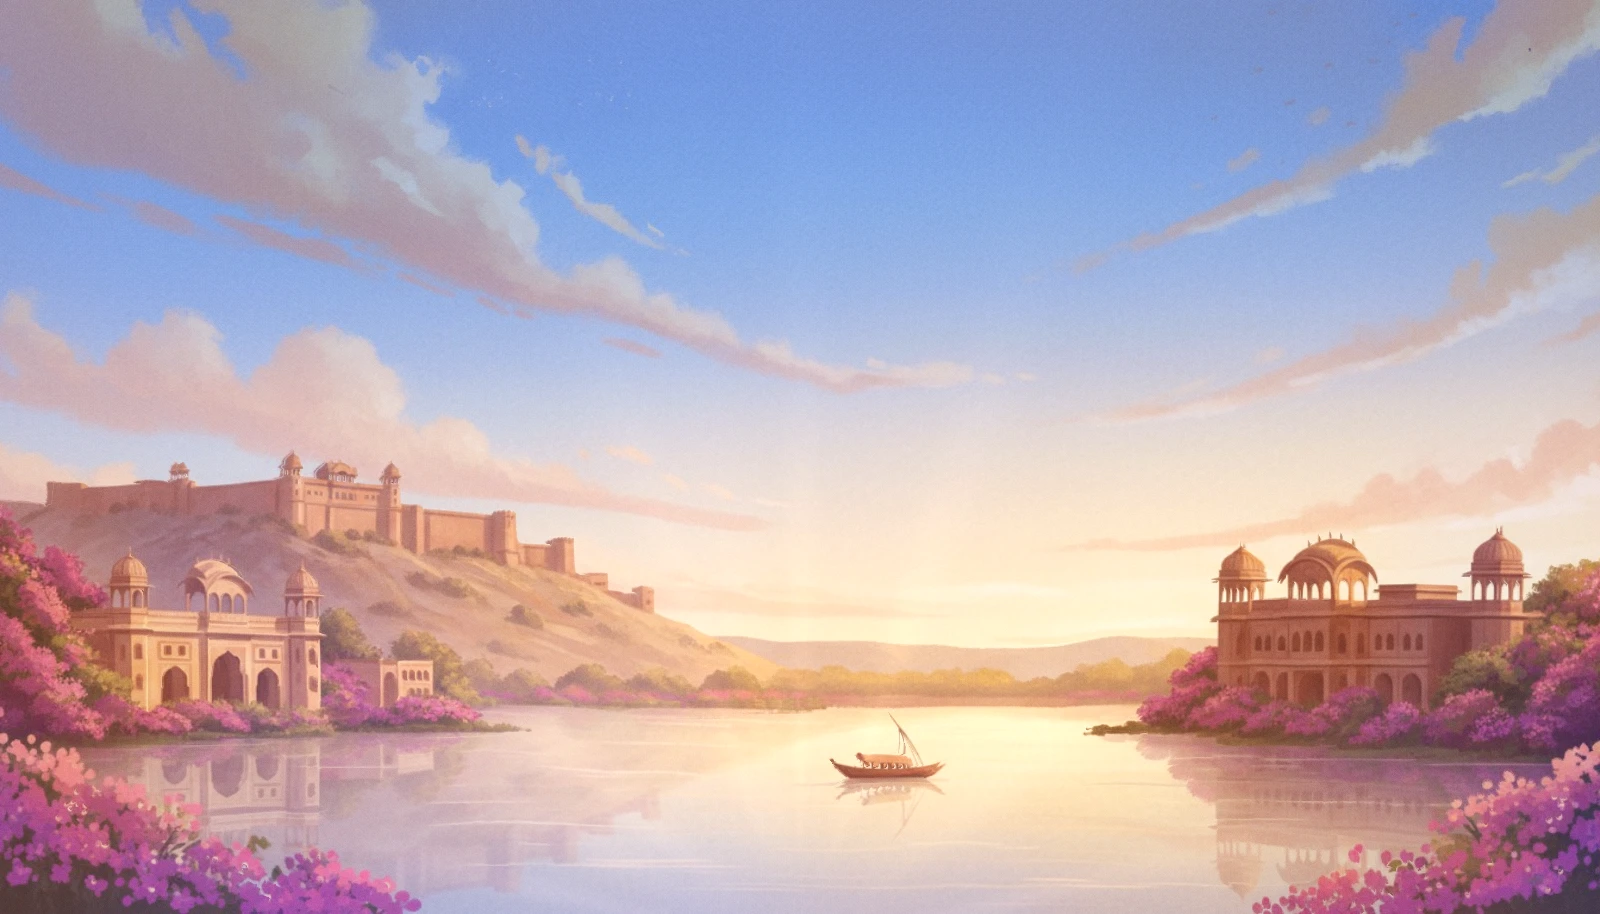
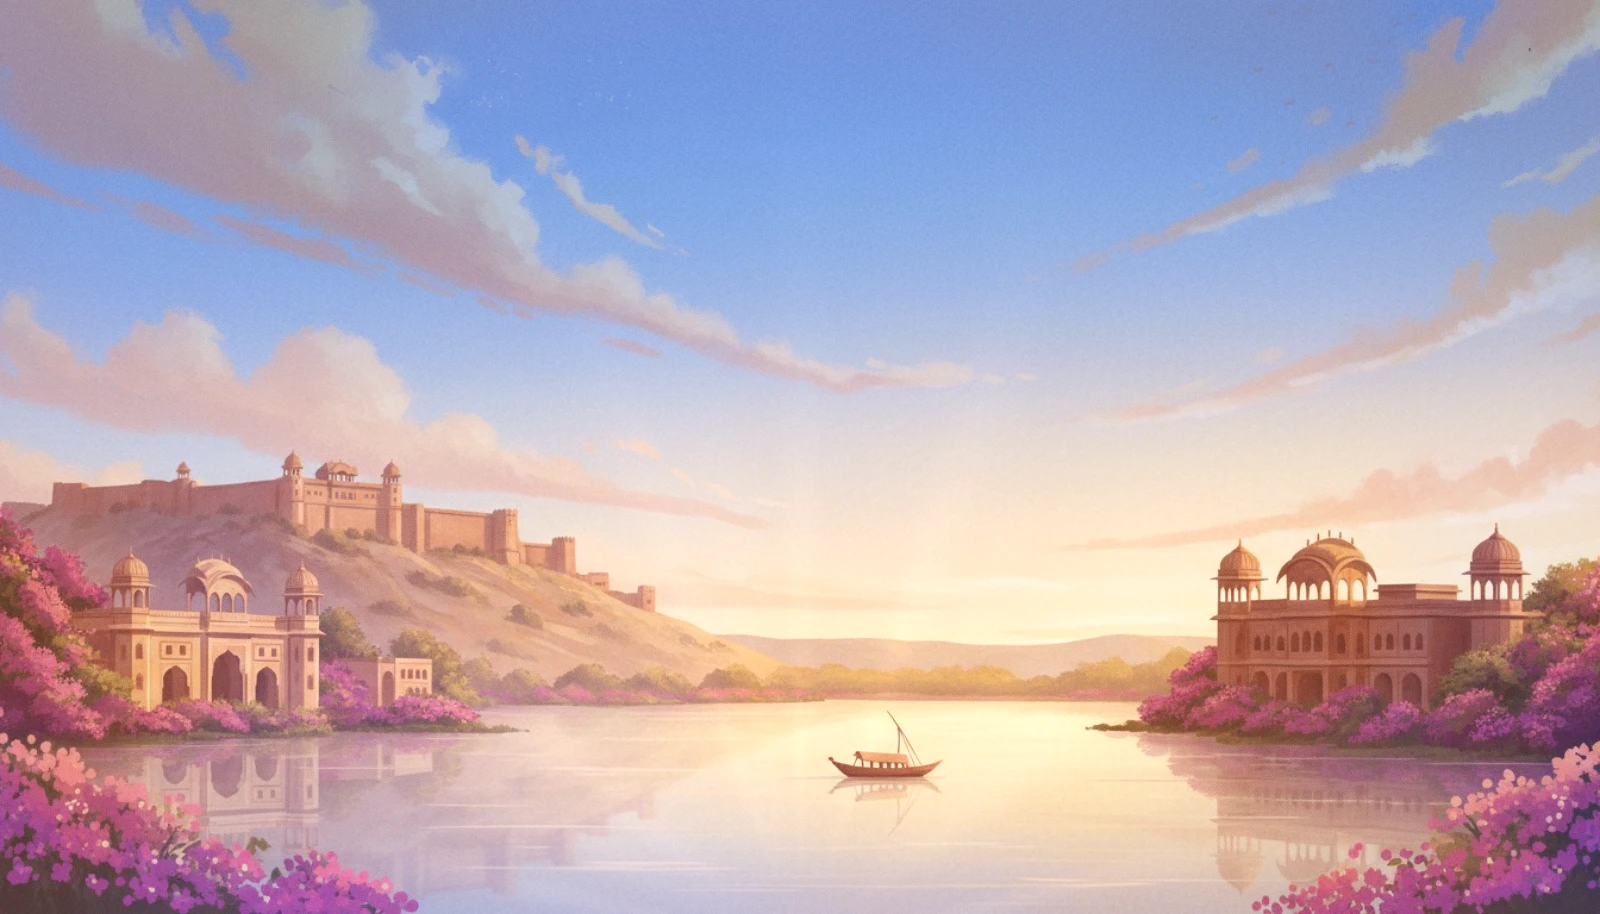
Hero: a soft shade behind the words; the India backdrop's buildings hold still
The subheading gets a radial shade of the page's own light (navy at night) and a
touch more weight so it reads over clouds, the fort and lit windows. The India
sky's flow is masked to the sky above the skyline; the default sky is unchanged.

diff --git a/animations/hero-sky.ts b/animations/hero-sky.ts
@@ -46,6 +46,21 @@ const LOOP = 24 * TPS;
 
 const f = (x: number) => x.toFixed(2);
 
+// The India painting has buildings, hills and water under its sky, and the flow would bend them.
+// Only the sky above the skyline moves: the skyline sits at 47% of the height over the fort, dips to
+// 66% at the far hills and rises to 55% over the palace on the right. Below it nothing warps; the
+// cursor's lean still shifts it as one layer. (Empty for the default sky, whose shader is unchanged.)
+const INDIA_MASK =
+  BG === 'india'
+    ? `
+  float2 nrm = u / float2(${f(W)}, ${f(H)});
+  float land = 0.47 + 0.19 * smoothstep(0.36, 0.5, nrm.x) - 0.11 * smoothstep(0.68, 0.76, nrm.x);
+  float skyOnly = 1.0 - smoothstep(land - 0.07, land - 0.015, nrm.y);
+  cloud *= skyOnly;`
+    : '';
+const INDIA_HOLD = BG === 'india' ? `
+  off *= skyOnly;` : '';
+
 const SKSL = `
 uniform shader inputImage;
 uniform float phase;
@@ -87,14 +102,14 @@ half4 main(float2 p) {
   float lum = dot(base0.rgb, half3(0.299, 0.587, 0.114));
   float sat = max(base0.r, max(base0.g, base0.b)) - min(base0.r, min(base0.g, base0.b));
   float cloud = smoothstep(0.66, 0.9, lum) * (1.0 - smoothstep(0.32, 0.5, sat));
-  cloud = max(cloud, smoothstep(0.55, 0.8, lum) * smoothstep(0.55, 1.0, u.y / ${f(H)}));
+  cloud = max(cloud, smoothstep(0.55, 0.8, lum) * smoothstep(0.55, 1.0, u.y / ${f(H)}));${INDIA_MASK}
 
   // looping flow: walk a circle through the noise field
   float2 loop = float2(cos(phase), sin(phase)) * 1.6;
   float2 q = u * 0.0042;
   float2 flow = float2(fbm(q + loop), fbm(q + loop + float2(5.2, 1.3))) - 0.5;
   float2 off = flow * (6.0 + cloud * 26.0);
-  off.x += sin(phase + u.y * 0.004) * 5.0 * cloud;
+  off.x += sin(phase + u.y * 0.004) * 5.0 * cloud;${INDIA_HOLD}
 
   // depth parallax under the cursor
   float presence = clamp(focusRadius / 600.0, 0.0, 1.0);

diff --git a/src/components/site/site.css b/src/components/site/site.css
@@ -437,6 +437,19 @@ html:not([data-cos-theme='dark']) .cos-hero-actions .cos-btn-silver {
 .cos-hero-copy > * {
   pointer-events: auto;
 }
+/* a soft shade of the page's own light behind the words, so the line under the headline holds
+   over whatever the backdrop puts there (clouds, a fort, lit windows at night) */
+.cos-hero-copy::before {
+  content: '';
+  position: absolute;
+  inset: -14% -22% -16% -34%;
+  z-index: -1;
+  background: radial-gradient(closest-side, rgba(250, 247, 242, 0.66), rgba(250, 247, 242, 0.32) 55%, rgba(250, 247, 242, 0));
+  pointer-events: none;
+}
+html[data-cos-theme='dark'] .cos-hero-copy::before {
+  background: radial-gradient(closest-side, rgba(5, 20, 31, 0.62), rgba(5, 20, 31, 0.3) 55%, rgba(5, 20, 31, 0));
+}
 
 .cos-hero-title {
   display: flex;
@@ -466,6 +479,7 @@ html:not([data-cos-theme='dark']) .cos-hero-actions .cos-btn-silver {
   margin: 24px 0 0;
   font-size: clamp(17px, 0.95rem + 0.3vw, 19px);
   line-height: 1.65;
+  font-weight: 450;
   letter-spacing: -0.01em;
   color: var(--cos-ink-sky);
   text-wrap: pretty;
